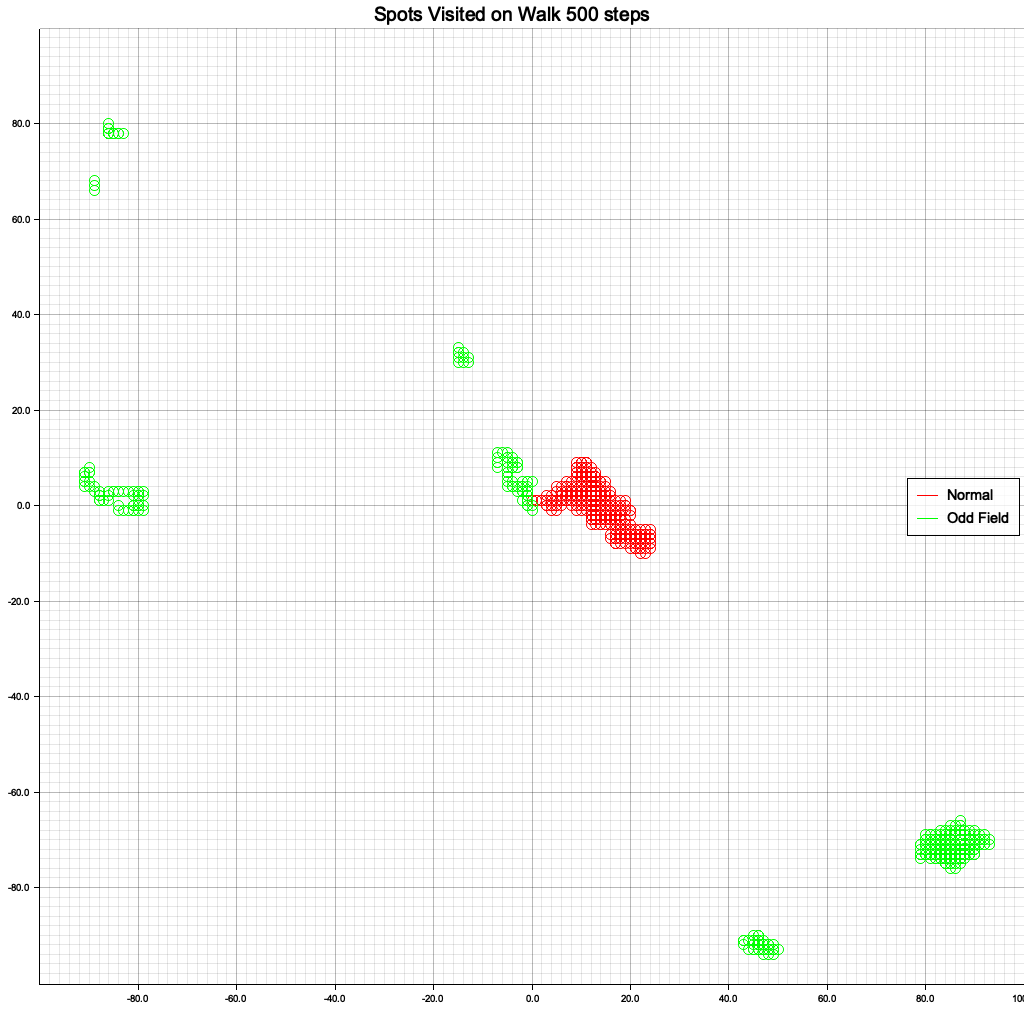
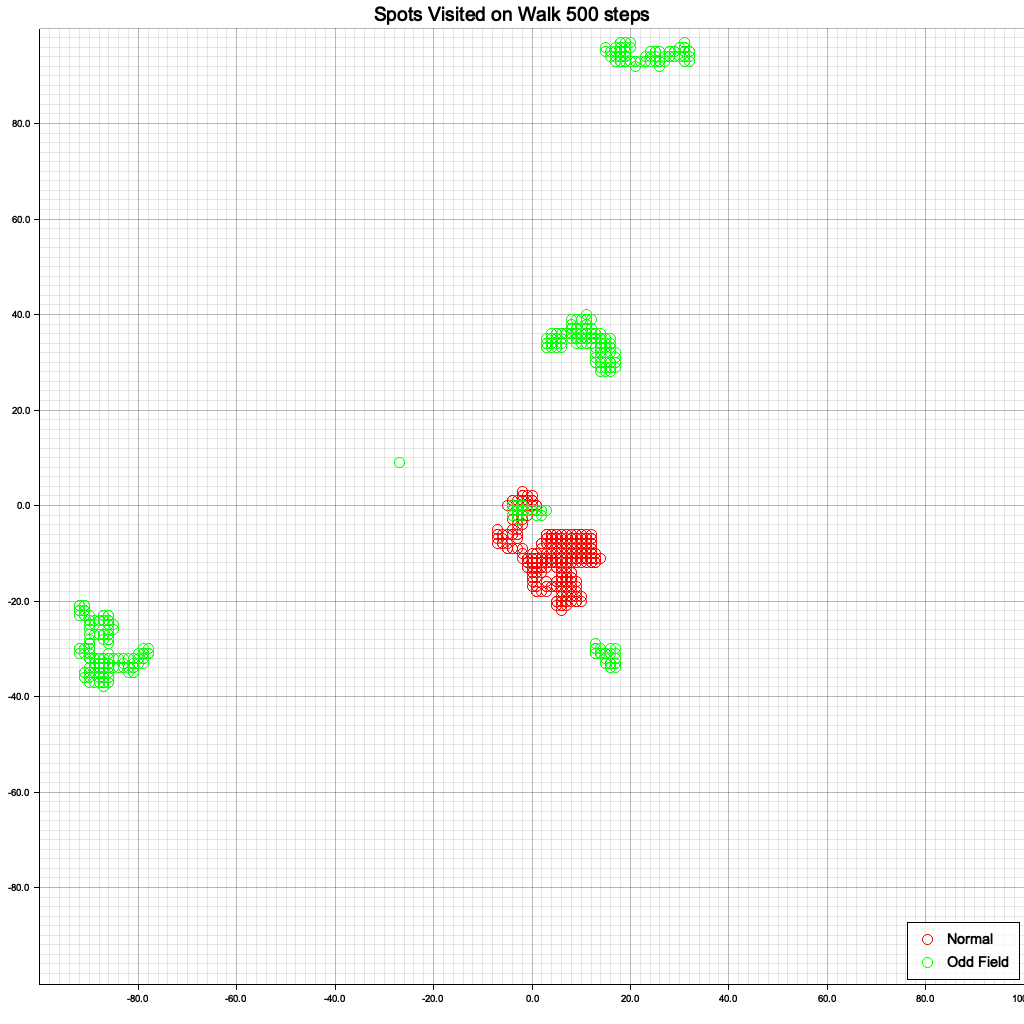
add plot locations and move legend to lower right

diff --git a/random-walk/src/main.rs b/random-walk/src/main.rs
@@ -21,6 +21,9 @@ fn main() {
     println!("plot mean value of different drunk");
     test_plot_all();
 
+    println!("plot location");
+    test_plot_locs();
+
     println!("trace walk");
     let mut fields: Vec<Field> = Vec::new();
     let field = Field::new();
@@ -232,6 +235,91 @@ fn test_plot_all() {
     sim_all(&drunks, &num_steps, 100);
 }
 
+fn get_final_locs(num_steps: u32, num_trials: u32, drunk: &Drunk) -> Vec<Location> {
+    let mut locs: Vec<Location> = Vec::new();
+    for _ in 0..num_trials {
+        let mut f = Field::new();
+        let origin = Location::new(0.0, 0.0);
+        f.add_drunk(drunk, &origin);
+        for _ in 0..num_steps {
+            f.move_drunk(drunk);
+        }
+        let loc = f.get_location(drunk);
+        locs.push(loc);
+    }
+    locs
+}
+
+fn plot_locs(drunks: &Vec<Drunk>, num_steps: u32, num_trials: u32) {
+    let root_area = BitMapBackend::new("scatter.png", (1024, 1024)).into_drawing_area();
+    root_area.fill(&WHITE).unwrap();
+
+    let title = format!("Location at End of Walks ({} steps)", num_steps);
+    let mut ctx = ChartBuilder::on(&root_area)
+        .set_label_area_size::<u32>(LabelAreaPosition::Left, 40)
+        .set_label_area_size::<u32>(LabelAreaPosition::Bottom, 40)
+        .caption(title, ("sans-serif", 24))
+        .build_cartesian_2d(-1000.0..1000.0, -1000.0..1000.0)
+        .unwrap();
+
+    ctx.configure_mesh().draw().unwrap();
+
+    for (i, drunk) in drunks.iter().enumerate() {
+        let locs = get_final_locs(num_steps, num_trials, drunk);
+        let sum_x: f64 = locs.iter().map(|l| l.x()).sum();
+        let sum_y: f64 = locs.iter().map(|l| l.y()).sum();
+        let mean_x = sum_x / locs.len() as f64;
+        let mean_y = sum_y / locs.len() as f64;
+        let legend_text = format!("{} mean abs dist = <{}, {}>", drunk.name(), mean_x, mean_y);
+
+        let mut points: Vec<(f64, f64)> = Vec::new();
+        for loc in locs {
+            points.push((loc.x(), loc.y()));
+        }
+
+        if i == 0 {
+            ctx.draw_series(points.iter().map(|point| Circle::new(*point, 5, &RED)))
+                .unwrap()
+                .label(legend_text)
+                .legend(|(x, y)| Circle::new((x + 10, y), 5, &RED));
+        } else {
+            ctx.draw_series(points.iter().map(|point| Circle::new(*point, 5, &GREEN)))
+                .unwrap()
+                .label(legend_text)
+                .legend(|(x, y)| Circle::new((x + 10, y), 5, &GREEN));
+        }
+    }
+
+    ctx.configure_series_labels()
+        .position(SeriesLabelPosition::LowerRight)
+        .border_style(&BLACK)
+        .background_style(&WHITE.mix(0.8))
+        .label_font(("sans-serif", 18))
+        .draw()
+        .unwrap();
+}
+
+fn test_plot_locs() {
+    let steps = vec![
+        Location::new(0.0, 1.0),
+        Location::new(0.0, -1.0),
+        Location::new(1.0, 0.0),
+        Location::new(-1.0, 0.0),
+    ];
+    let usual_drunk = Drunk::new("usual".to_owned(), &steps);
+
+    let steps = vec![
+        Location::new(0.0, 1.1),
+        Location::new(0.0, -0.9),
+        Location::new(1.1, 0.0),
+        Location::new(-0.9, 0.0),
+    ];
+    let masochist_drunk = Drunk::new("masochist".to_owned(), &steps);
+
+    let drunks = vec![usual_drunk, masochist_drunk];
+    plot_locs(&drunks, 10_000, 1_000);
+}
+
 fn trace_walk(fields: &mut Vec<Field>, num_steps: u32, x_range: f64, y_range: f64) {
     let root_area = BitMapBackend::new("trace_walk.png", (1024, 1024)).into_drawing_area();
     root_area.fill(&WHITE).unwrap();
@@ -268,16 +356,17 @@ fn trace_walk(fields: &mut Vec<Field>, num_steps: u32, x_range: f64, y_range: f6
             ctx.draw_series(points.iter().map(|point| Circle::new(*point, 5, &RED)))
                 .unwrap()
                 .label(field.name())
-                .legend(|(x, y)| PathElement::new(vec![(x, y), (x + 20, y)], &RED));
+                .legend(|(x, y)| Circle::new((x + 10, y), 5, &RED));
         } else {
             ctx.draw_series(points.iter().map(|point| Circle::new(*point, 5, &GREEN)))
                 .unwrap()
                 .label(field.name())
-                .legend(|(x, y)| PathElement::new(vec![(x, y), (x + 20, y)], &GREEN));
+                .legend(|(x, y)| Circle::new((x + 10, y), 5, &GREEN));
         }
     }
 
     ctx.configure_series_labels()
+        .position(SeriesLabelPosition::LowerRight)
         .border_style(&BLACK)
         .background_style(&WHITE.mix(0.8))
         .label_font(("sans-serif", 18))
